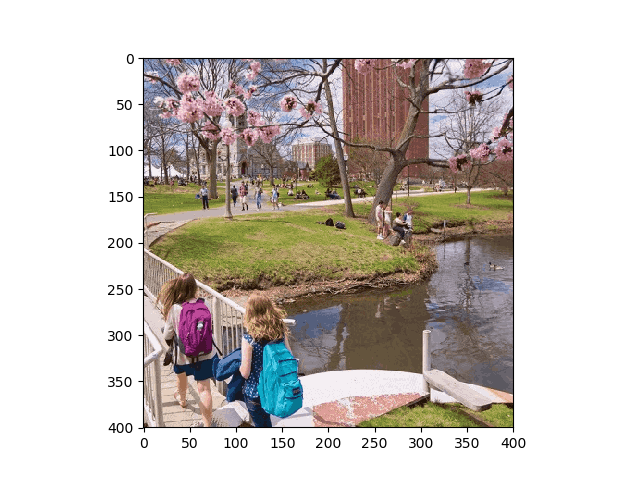
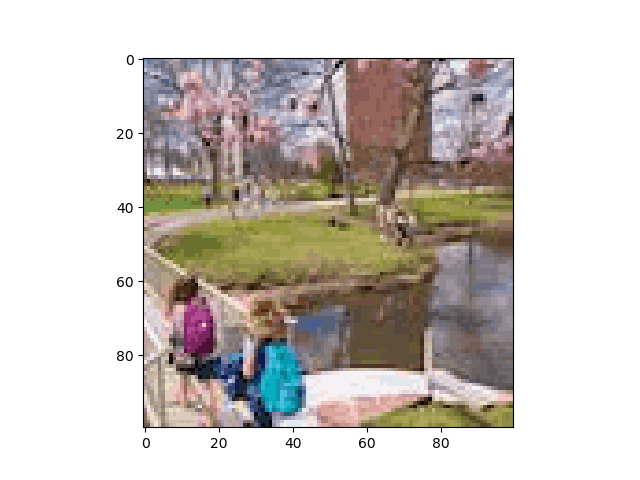
finish linkage selection

Changed region(s): [[0.1562, 0.125, 0.8125, 0.9375], [0.7812, 0.9062, 0.8438, 0.9375], [0.7812, 0.625, 0.8125, 0.6562]]

diff --git a/Submission/Code/run_me.py b/Submission/Code/run_me.py
@@ -2,16 +2,27 @@
 
 import numpy as np
 from scipy import misc
-from sklearn.cluster import KMeans
+from sklearn.cluster import KMeans, AgglomerativeClustering
 import matplotlib.pyplot as plt
 import imageio
 
-
 def read_scene():
-    data_x = imageio.imread('../../Data/umass_campus.jpg')
+    data_x = imageio.imread('../../Data/umass_campus_100x100x3.jpg')
 
     return (data_x)
 
+def compute_mean(img, labels):
+    temp_dict = {}
+    for i in range(len(labels)):
+        if labels[i] in temp_dict:
+            temp_dict[labels[i]] = np.append(temp_dict[labels[i]], [img[i]], axis=0)
+        else:
+            temp_dict[labels[i]] = np.array([img[i]])
+    mean_dict = {}
+    for k, v in temp_dict.items():
+        mean_dict[k] = [v[:,0].mean(),v[:,1].mean(),v[:,2].mean()]
+
+    return mean_dict
 
 if __name__ == '__main__':
     ################################################
@@ -25,15 +36,29 @@ if __name__ == '__main__':
     print('Flattened image = ', flattened_image.shape)
 
     print('Implement AHC here ...')
-
-    print('Implement k-means here ...')
-    for c in [2, 5, 10, 25, 50, 75, 100, 200]:
-        kmeans = KMeans(n_clusters=c)
-        cluster_lables = kmeans.fit_predict(flattened_image)
-        for i in range(len(cluster_lables)):
-            flattened_temp[i] = kmeans.cluster_centers_[cluster_lables[i]]
-
-        reconstructed_image = flattened_temp.ravel().reshape(data_x.shape[0], data_x.shape[1], data_x.shape[2])
-        plt.imshow(reconstructed_image)
-        plt.show()
-        print('Reconstructed image = ', reconstructed_image.shape)
+    for a in ['euclidean', 'l1', 'l2', 'manhattan', 'cosine' ]:
+        for l in ['ward', 'complete', 'average']:
+            if l == 'ward' and a != 'euclidean':
+                pass
+            else:
+                print(a, l)
+                hac = AgglomerativeClustering(affinity=a, linkage=l)
+                cluster_lables = hac.fit_predict(flattened_image)
+                mean_dict = compute_mean(flattened_image, cluster_lables)
+                for i in range(len(cluster_lables)):
+                    flattened_temp[i] = mean_dict[cluster_lables[i]]
+                reconstructed_image = flattened_temp.ravel().reshape(data_x.shape[0], data_x.shape[1], data_x.shape[2])
+                plt.imshow(reconstructed_image)
+                plt.show()
+    # print('Implement k-means here ...')
+    # for c in [2, 5, 10, 25, 50, 75, 100, 200]:
+    #     kmeans = KMeans(n_clusters=c)
+    #     cluster_lables = kmeans.fit_predict(flattened_image)
+    #     for i in range(len(cluster_lables)):
+    #         flattened_temp[i] = kmeans.cluster_centers_[cluster_lables[i]]
+    #
+    #     reconstructed_image = flattened_temp.ravel().reshape(data_x.shape[0], data_x.shape[1], data_x.shape[2])
+    #     plt.imshow(reconstructed_image)
+    #     plt.savefig('c{}.jpg'.format(c))
+    #     plt.close()
+    #     print('Reconstructed image = ', reconstructed_image.shape)
